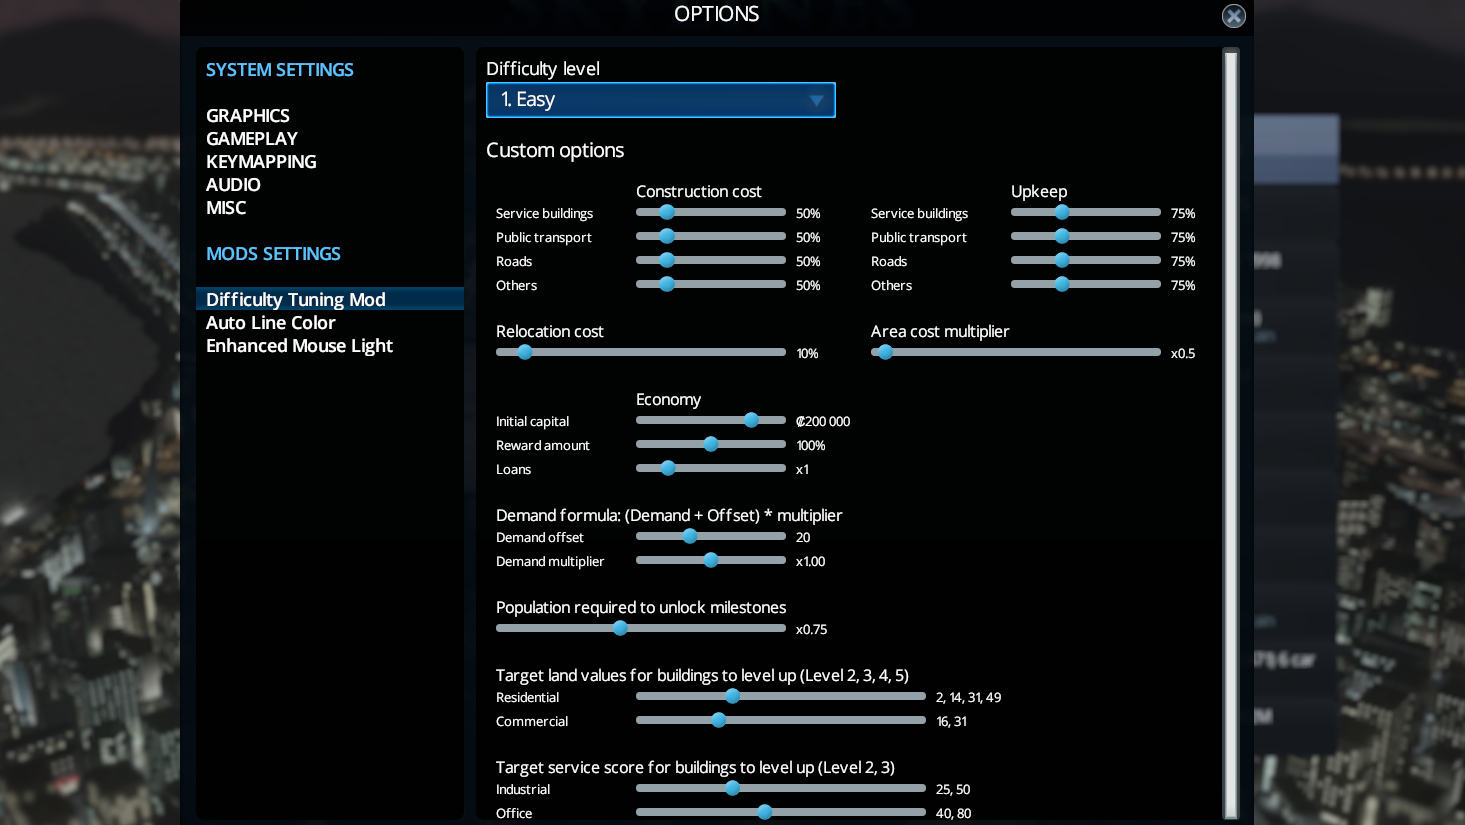
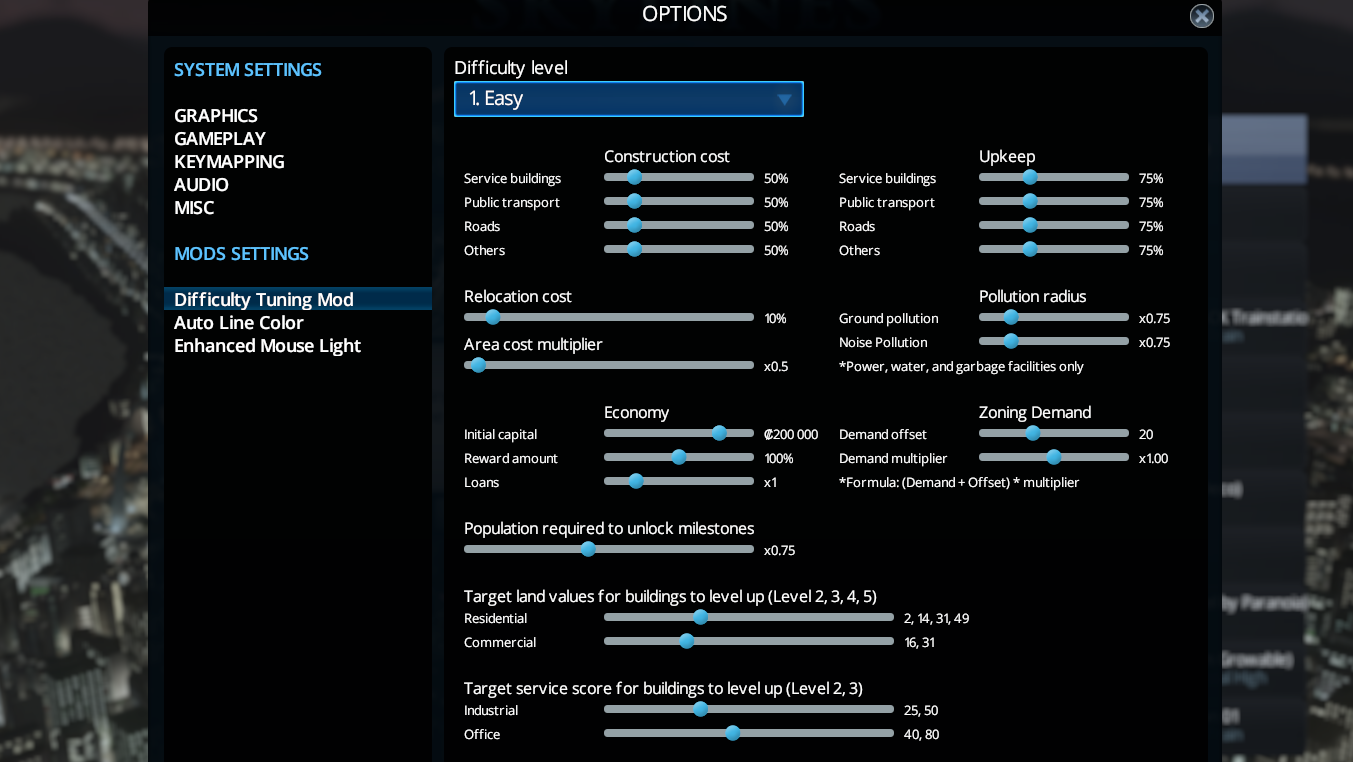
Added ground pollution radius and noise radius options.

diff --git a/Source/Language.cs b/Source/Language.cs
@@ -62,6 +62,10 @@ namespace DifficultyTuningMod
                 texts["INITIAL_MONEY"] = "Startkapitaal";
                 texts["REWARD"] = "Beloning";
 
+                texts["POLLUTION_RADIUS"] = "Pollution radius"; // To translate
+                texts["GROUND_POLLUTION"] = "Ground pollution"; // To translate
+                texts["ONLY_POWER_WATER_GARBAGE"] = "*Power, water, and garbage facilities only"; // To translate
+
                 texts["DEMAND"] = "Vraag";
                 texts["DEMAND_FORMULA"] = "Formule: (Vraag + Impuls) * vermenigvuldigingsfactor";
                 texts["DEMAND_OFFSET"] = "Impuls";
@@ -110,6 +114,10 @@ namespace DifficultyTuningMod
                 texts["INITIAL_MONEY"] = "Anfangskapital";
                 texts["REWARD"] = "Belohnung";
 
+                texts["POLLUTION_RADIUS"] = "Pollution radius"; // To translate
+                texts["GROUND_POLLUTION"] = "Ground pollution"; // To translate
+                texts["ONLY_POWER_WATER_GARBAGE"] = "*Power, water, and garbage facilities only"; // To translate
+
                 texts["DEMAND"] = "Frage";
                 texts["DEMAND_FORMULA"] = "Formel: (Frage + Impuls) * Multiplikator";
                 texts["DEMAND_OFFSET"] = "Impuls";
@@ -155,6 +163,10 @@ namespace DifficultyTuningMod
                 texts["AREA_COST_MULTIPLIER"] = "Moltiplicatore costi di aree";
                 texts["INITIAL_MONEY"] = "Capitale iniziale";
                 texts["REWARD"] = "Ricompensa";
+
+                texts["POLLUTION_RADIUS"] = "Pollution radius"; // To translate
+                texts["GROUND_POLLUTION"] = "Ground pollution"; // To translate
+                texts["ONLY_POWER_WATER_GARBAGE"] = "*Power, water, and garbage facilities only"; // To translate
 
                 texts["DEMAND"] = "Domanda";
                 texts["DEMAND_FORMULA"] = "Formula: (Domanda + Impulso) * Moltiplicatore";
@@ -202,19 +214,23 @@ namespace DifficultyTuningMod
                 texts["INITIAL_MONEY"] = "Capital inicial";
                 texts["REWARD"] = "Recompensa";
 
+                texts["POLLUTION_RADIUS"] = "Pollution radius"; // To translate
+                texts["GROUND_POLLUTION"] = "Ground pollution"; // To translate
+                texts["ONLY_POWER_WATER_GARBAGE"] = "*Power, water, and garbage facilities only"; // To translate
+
                 texts["DEMAND"] = "Demanda";
                 texts["DEMAND_FORMULA"] = "Fórmula: (Demanda + Compensação) * multiplicador";
                 texts["DEMAND_OFFSET"] = "Compensação";
                 texts["DEMAND_MULTIPLIER"] = "Multiplicador";
 
-                texts["TAGRET_LANDVALUE"] = "Valores-alvo do custo da terra para edifícios a subir de nível (Nível 2, 3, 4, 5)"; // To check
+                texts["TAGRET_LANDVALUE"] = "Valores-alvo do custo da terra para edifícios a subir de nível (Nível 2, 3, 4, 5)";
                 texts["RESIDENTIAL"] = "Residenciais";
                 texts["COMMERCIAL"] = "Comerciais";
-                texts["TAGRET_SCORE"] = "Target service score for buildings to level up (Nível 2, 3)"; // To translate
+                texts["TAGRET_SCORE"] = "Valores-alvo da pontuação serviço para edifícios a subir de nível (Nível 2, 3)";
                 texts["INDUSTRIAL"] = "Industriais";
                 texts["OFFICE"] = "Escritórios";
 
-                texts["POPULATION_TARGET_MULTIPLIER"] = "Population required to unlock milestones"; // To translate
+                texts["POPULATION_TARGET_MULTIPLIER"] = "A população necessária para desbloquear marcos";
             }
             else if (selectedLanguage == "ru")
             {
@@ -247,6 +263,10 @@ namespace DifficultyTuningMod
                 texts["AREA_COST_MULTIPLIER"] = "Коэффициент покупки области";
                 texts["INITIAL_MONEY"] = "Начальный капитал";
                 texts["REWARD"] = "Награды";
+
+                texts["POLLUTION_RADIUS"] = "Радиус загрязнений";
+                texts["GROUND_POLLUTION"] = "Загрязнения почвы";
+                texts["ONLY_POWER_WATER_GARBAGE"] = "*Только для электро, водных и мусорных предприятий";
 
                 texts["DEMAND"] = "Потребность";
                 texts["DEMAND_FORMULA"] = "Формула: (Потребность + Смещение) * Коэффициент";
@@ -294,6 +314,10 @@ namespace DifficultyTuningMod
                 texts["INITIAL_MONEY"] = "初期金額";
                 texts["REWARD"] = "報酬の割合";
 
+                texts["POLLUTION_RADIUS"] = "汚染半径";
+                texts["GROUND_POLLUTION"] = "土壌汚染";
+                texts["ONLY_POWER_WATER_GARBAGE"] = "*電力、上下水道、ゴミ施設のみ";
+
                 texts["DEMAND"] = "需要";
                 texts["DEMAND_FORMULA"] = "式：　（需要＋オフセット）＊係数";
                 texts["DEMAND_OFFSET"] = "オフセット";
@@ -340,8 +364,12 @@ namespace DifficultyTuningMod
                 texts["INITIAL_MONEY"] = "Initial capital";
                 texts["REWARD"] = "Reward amount"; // amount of money you get when a milestone is reached
 
+                texts["POLLUTION_RADIUS"] = "Pollution radius";
+                texts["GROUND_POLLUTION"] = "Ground pollution";
+                texts["ONLY_POWER_WATER_GARBAGE"] = "*Power, water, and garbage facilities only";
+
                 texts["DEMAND"] = "Demand";
-                texts["DEMAND_FORMULA"] = "Formula: (Demand + Offset) * multiplier";
+                texts["DEMAND_FORMULA"] = "*Formula: (Demand + Offset) * multiplier";
                 texts["DEMAND_OFFSET"] = "Demand offset";
                 texts["DEMAND_MULTIPLIER"] = "Demand multiplier";
 

diff --git a/Source/PrefabsManager.cs b/Source/PrefabsManager.cs
@@ -1,0 +1,104 @@
+using System;
+using System.Collections.Generic;
+using ColossalFramework;
+using ColossalFramework.Plugins;
+using DifficultyTuningMod.DifficultyOptions;
+
+namespace DifficultyTuningMod
+{
+    public static class PrefabsManager
+    {
+        private static int GroundPollutionRadiusMultiplier_old = -1;
+        private static int NoiseRadiusMultiplier_old = -1;
+
+        private static Dictionary<string, float> groundPollutionRadiusOriginal = new Dictionary<string, float>();
+        private static Dictionary<string, float> noiseRadiusOriginal = new Dictionary<string, float>();
+
+        public static void UpdatePrefabs(bool maybeDuringGame)
+        {
+            DifficultyManager d = Singleton<DifficultyManager>.instance;
+
+            if (maybeDuringGame)
+            {
+                if (d.GroundPollutionRadiusMultiplier.Value == GroundPollutionRadiusMultiplier_old && d.NoisePollutionRadiusMultiplier.Value == NoiseRadiusMultiplier_old) return;
+            }
+            else
+            {
+                if (d.GroundPollutionRadiusMultiplier.Value == 100 && d.NoisePollutionRadiusMultiplier.Value == 100) return;
+            }
+
+            try
+            {
+                float newPollutionRadius, newNoiseRadius;
+
+                DebugOutputPanel.AddMessage(PluginManager.MessageType.Message, "Difficulty tuning mod: changing prefabs...");
+
+                foreach (BuildingCollection bc in UnityEngine.Object.FindObjectsOfType<BuildingCollection>())
+                {
+                    foreach (BuildingInfo bi in bc.m_prefabs)
+                    {
+                        BuildingAI bAI = bi.m_buildingAI;
+
+                        PowerPlantAI ppAI = bAI as PowerPlantAI;
+                        if (ppAI != null)
+                        {
+                            if (!groundPollutionRadiusOriginal.ContainsKey(ppAI.name)) groundPollutionRadiusOriginal.Add(ppAI.name, ppAI.m_pollutionRadius);
+                            if (!noiseRadiusOriginal.ContainsKey(ppAI.name)) noiseRadiusOriginal.Add(ppAI.name, ppAI.m_noiseRadius);
+
+                            newPollutionRadius = groundPollutionRadiusOriginal[ppAI.name] * 0.01f * d.GroundPollutionRadiusMultiplier.Value;
+                            prefabChangedMessage(ppAI.name, "ground pollution radius", groundPollutionRadiusOriginal[ppAI.name], newPollutionRadius);
+                            ppAI.m_pollutionRadius = newPollutionRadius;
+
+                            newNoiseRadius = noiseRadiusOriginal[ppAI.name] * 0.01f * d.NoisePollutionRadiusMultiplier.Value;
+                            prefabChangedMessage(ppAI.name, "noise pollution radius", noiseRadiusOriginal[ppAI.name], newNoiseRadius);
+                            ppAI.m_noiseRadius = newNoiseRadius;
+
+                            continue;
+                        }
+
+                        LandfillSiteAI lfsAI = bAI as LandfillSiteAI;
+                        if (lfsAI != null)
+                        {
+                            if (!groundPollutionRadiusOriginal.ContainsKey(lfsAI.name)) groundPollutionRadiusOriginal.Add(lfsAI.name, lfsAI.m_pollutionRadius);
+                            if (!noiseRadiusOriginal.ContainsKey(lfsAI.name)) noiseRadiusOriginal.Add(lfsAI.name, lfsAI.m_noiseRadius);
+
+                            newPollutionRadius = groundPollutionRadiusOriginal[lfsAI.name] * 0.01f * d.GroundPollutionRadiusMultiplier.Value;
+                            prefabChangedMessage(lfsAI.name, "ground pollution radius", groundPollutionRadiusOriginal[lfsAI.name], newPollutionRadius);
+                            lfsAI.m_pollutionRadius = newPollutionRadius;
+
+                            newNoiseRadius = noiseRadiusOriginal[lfsAI.name] * 0.01f * d.NoisePollutionRadiusMultiplier.Value;
+                            prefabChangedMessage(lfsAI.name, "noise pollution radius", noiseRadiusOriginal[lfsAI.name], newNoiseRadius);
+                            lfsAI.m_noiseRadius = newNoiseRadius;
+
+                            continue;
+                        }
+
+                        WaterFacilityAI wfAI = bAI as WaterFacilityAI;
+                        if (wfAI != null)
+                        {
+                            if (!noiseRadiusOriginal.ContainsKey(wfAI.name)) noiseRadiusOriginal.Add(wfAI.name, wfAI.m_noiseRadius);
+
+                            newNoiseRadius = noiseRadiusOriginal[wfAI.name] * 0.01f * d.NoisePollutionRadiusMultiplier.Value;
+                            prefabChangedMessage(wfAI.name, "noise pollution radius", noiseRadiusOriginal[wfAI.name], newNoiseRadius);
+                            wfAI.m_noiseRadius = newNoiseRadius;
+
+                            continue;
+                        }
+                    }
+                }
+
+                GroundPollutionRadiusMultiplier_old = d.GroundPollutionRadiusMultiplier.Value;
+                NoiseRadiusMultiplier_old = d.NoisePollutionRadiusMultiplier.Value;
+            }
+            catch (Exception ex)
+            {
+                DebugOutputPanel.AddMessage(PluginManager.MessageType.Message, ex.Message);
+            }
+        }
+
+        private static void prefabChangedMessage(string prefabName, string paramName, float oldValue, float newValue)
+        {
+            DebugOutputPanel.AddMessage(PluginManager.MessageType.Message, String.Format("{0}: {1} changed from {2} to {3}", prefabName, paramName, oldValue, newValue));
+        }
+    }
+}

diff --git a/Source/LoadingExtension.cs b/Source/LoadingExtension.cs
@@ -37,76 +37,7 @@ namespace DifficultyTuningMod
 
             Achievements.Update();
 
-            updatePrefabs();
-        }
-
-        private void updatePrefabs()
-        {
-            DifficultyManager d = Singleton<DifficultyManager>.instance;
-
-            if (d.GroundPollutionRadiusMultiplier.Value == 100 && d.NoisePollutionRadiusMultiplier.Value == 100) return;
-
-            try
-            {
-                float newPollutionRadius, newNoiseRadius;
-
-                DebugOutputPanel.AddMessage(PluginManager.MessageType.Message, "Difficulty tuning mod: changing prefabs...");
-
-                foreach (BuildingCollection bc in UnityEngine.Object.FindObjectsOfType<BuildingCollection>())
-                {
-                    foreach (BuildingInfo bi in bc.m_prefabs)
-                    {
-                        BuildingAI bAI = bi.m_buildingAI;
-
-                        PowerPlantAI ppAI = bAI as PowerPlantAI;
-                        if (ppAI != null)
-                        {
-                            newPollutionRadius = ppAI.m_pollutionRadius * 0.01f * d.GroundPollutionRadiusMultiplier.Value;
-                            prefabChangedMessage(ppAI.name, "ground pollution radius", ppAI.m_pollutionRadius, newPollutionRadius);
-                            ppAI.m_pollutionRadius = newPollutionRadius;
-
-                            newNoiseRadius = ppAI.m_noiseRadius * 0.01f * d.NoisePollutionRadiusMultiplier.Value;
-                            prefabChangedMessage(ppAI.name, "noise pollution radius", ppAI.m_noiseRadius, newNoiseRadius);
-                            ppAI.m_noiseRadius = newNoiseRadius;
-
-                            continue;
-                        }
-
-                        LandfillSiteAI lfsAI = bAI as LandfillSiteAI;
-                        if (lfsAI != null)
-                        {
-                            newPollutionRadius = lfsAI.m_pollutionRadius * 0.01f * d.GroundPollutionRadiusMultiplier.Value;
-                            prefabChangedMessage(lfsAI.name, "ground pollution radius", lfsAI.m_pollutionRadius, newPollutionRadius);
-                            lfsAI.m_pollutionRadius = newPollutionRadius;
-
-                            newNoiseRadius = lfsAI.m_noiseRadius * 0.01f * d.NoisePollutionRadiusMultiplier.Value;
-                            prefabChangedMessage(lfsAI.name, "noise pollution radius", lfsAI.m_noiseRadius, newNoiseRadius);
-                            lfsAI.m_noiseRadius = newNoiseRadius;
-
-                            continue;
-                        }
-
-                        WaterFacilityAI wfAI = bAI as WaterFacilityAI;
-                        if (wfAI != null)
-                        {
-                            newNoiseRadius = wfAI.m_noiseRadius * 0.01f * d.NoisePollutionRadiusMultiplier.Value;
-                            prefabChangedMessage(wfAI.name, "noise pollution radius", wfAI.m_noiseRadius, newNoiseRadius);
-                            wfAI.m_noiseRadius = newNoiseRadius;
-
-                            continue;
-                        }
-                    }
-                }
-            }
-            catch (Exception ex)
-            {
-                DebugOutputPanel.AddMessage(PluginManager.MessageType.Message, ex.Message);
-            }
-        }
-
-        private void prefabChangedMessage(string prefabName, string paramName, float oldValue, float newValue)
-        {
-            DebugOutputPanel.AddMessage(PluginManager.MessageType.Message, String.Format("{0}: {1} changed from {2} to {3}", prefabName, paramName, oldValue, newValue));
+            PrefabsManager.UpdatePrefabs(false);
         }
     }
 }

diff --git a/Source/Mod.cs b/Source/Mod.cs
@@ -106,7 +106,7 @@ namespace DifficultyTuningMod
             float w2 = w1 + 140;
 
             ddDifficulty.parent.relativePosition = new Vector3(5, y);
-            y += ddDifficulty.parent.height + 10;
+            y += ddDifficulty.parent.height + 20;
 
 
             //
@@ -145,24 +145,26 @@ namespace DifficultyTuningMod
             addLabel(scrollablePanel, truncateSemicolon(Locale.Get("TOOL_RELOCATE_COST")), new Vector3(x1, y), textScaleMedium);
             y += dy1;
             addSlider(scrollablePanel, new Vector3(x1, y), w2, OnCustomValueChanged, d.RelocationCostMultiplier);
-            y += dy2;
+            y += dy1;
 
             // Area purchase cost
-            addLabel(scrollablePanel, DTMLang.Text("AREA_COST_MULTIPLIER"), new Vector3(x3, y), textScaleMedium);
+            addLabel(scrollablePanel, DTMLang.Text("AREA_COST_MULTIPLIER"), new Vector3(x1, y), textScaleMedium);
             y += dy1;
-            addSlider(scrollablePanel, new Vector3(x3, y), w2, OnCustomValueChanged, d.AreaCostMultiplier);
+            addSlider(scrollablePanel, new Vector3(x1, y), w2, OnCustomValueChanged, d.AreaCostMultiplier);
 
             // Pollution
-            y -= dy2 + 2 * dy1;
-            addLabel(scrollablePanel, Locale.Get("INFO_POLLUTION_TITLE"), new Vector3(x4, y), textScaleMedium);
+            y -= 3 * dy1;
+            addLabel(scrollablePanel, DTMLang.Text("POLLUTION_RADIUS"), new Vector3(x4, y), textScaleMedium);
             y += dy1;
             // Ground pollution radius multiplier
-            addLabel(scrollablePanel, Locale.Get("INFO_POLLUTION_GROUND"), new Vector3(x3, y), textScaleSmall);
+            addLabel(scrollablePanel, DTMLang.Text("GROUND_POLLUTION"), new Vector3(x3, y), textScaleSmall);
             addSlider(scrollablePanel, new Vector3(x4, y), w1, OnCustomValueChanged, d.GroundPollutionRadiusMultiplier);
             y += dy1;
             addLabel(scrollablePanel, Locale.Get("INFO_NOISEPOLLUTION_TITLE"), new Vector3(x3, y), textScaleSmall);
             addSlider(scrollablePanel, new Vector3(x4, y), w1, OnCustomValueChanged, d.NoisePollutionRadiusMultiplier);
-            y += 2 * dy2;
+            y += dy1;
+            addLabel(scrollablePanel, DTMLang.Text("ONLY_POWER_WATER_GARBAGE"), new Vector3(x3, y), textScaleSmall);
+            y += dy2;
 
             // Economy
             addLabel(scrollablePanel, Locale.Get("ECONOMY_TITLE"), new Vector3(x2, y), textScaleMedium);
@@ -229,6 +231,7 @@ namespace DifficultyTuningMod
             if (d != null && d.Modified)
             {
                 d.Save();
+                PrefabsManager.UpdatePrefabs(true);
             }
         }
 
